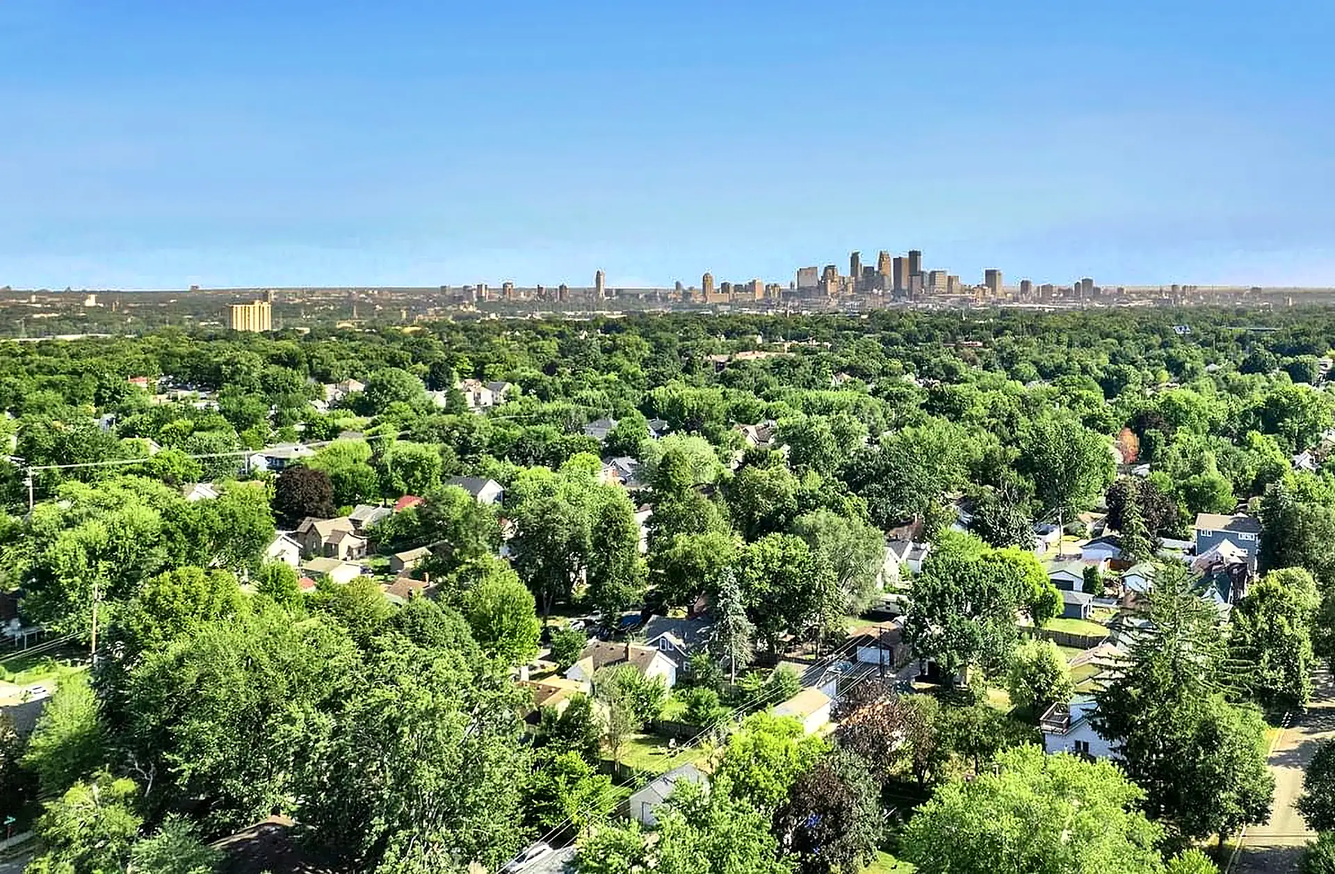
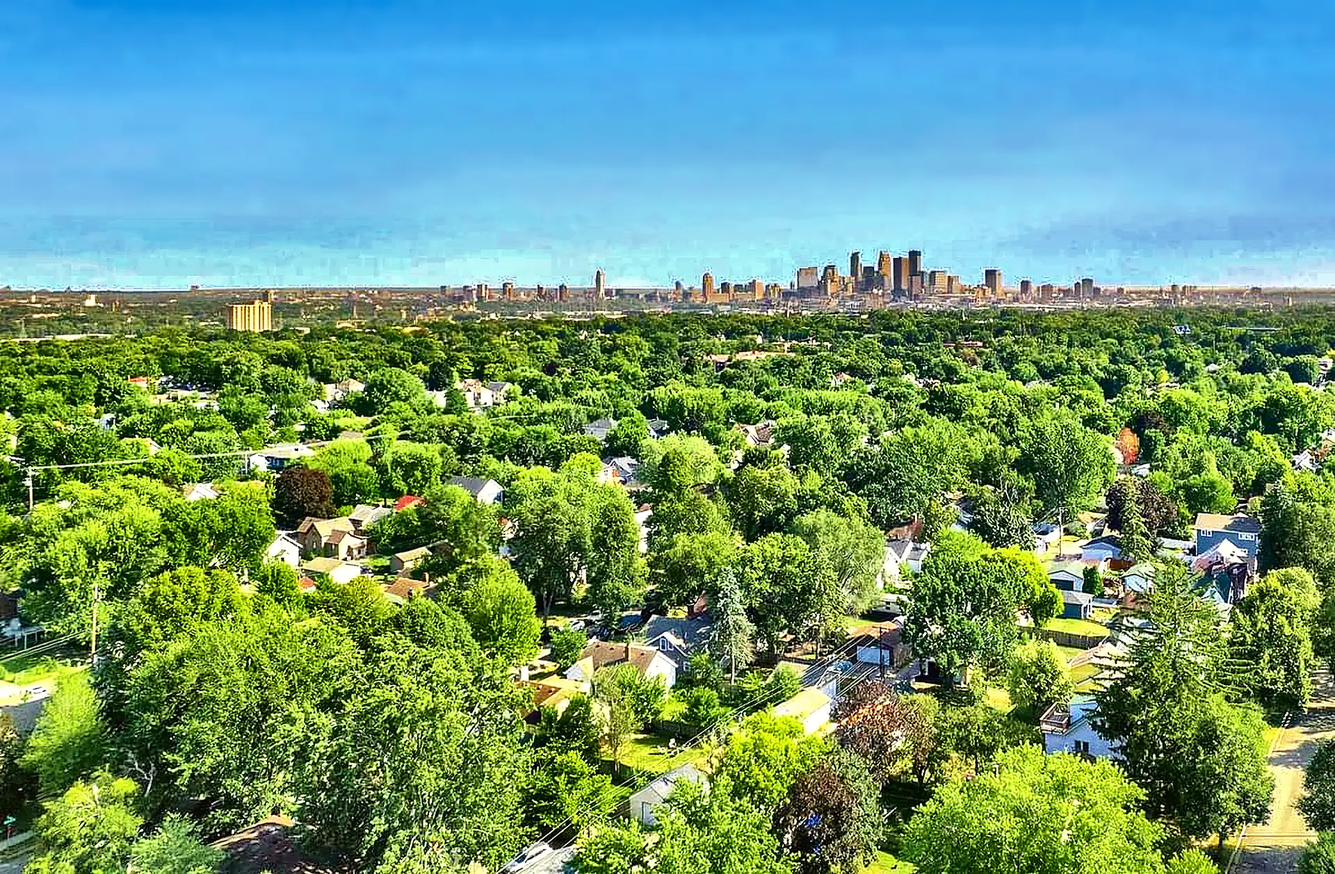
Home page photo: brighter and more vivid (Jason)
Brighter levels, more color in the trees, a clean blue sky (smoothed) and a touch of warmth, on top of the haze
removal. Same file names and framing; image files only.

Claude-Session: https://claude.ai/code/session_018NwgMocKbszJzV4w1RX1qK

diff --git a/public/hero/CREDITS.md b/public/hero/CREDITS.md
@@ -16,7 +16,8 @@
   the downtown skyline. Jason chose it Nov 12, 2026 from mockups (it replaced the Lakeville twilight photo, MLS 7115021,
   used Nov 11 only).
 - Processing (Nov 12, 2026, at Jason's request): enlarged 2x (EDSR), haze removed (dark-channel dehaze on the land only,
-  sky kept smooth), light local contrast and sharpening. Source script in the session notes, not in the repo.
+  sky kept smooth), light local contrast and sharpening; then (same day, Jason: "bright and vivid") brighter levels,
+  more color in the trees, a clearer blue sky and a touch of warmth. Source scripts in the session notes, not in the repo.
 - Made from the MLS copy (1600 px): enlarged 2x with the EDSR super-resolution model (OpenCV dnn_superres), lightly
   sharpened, the top of the sky trimmed; sizes 640-2560 px.
 - To do (Jason): confirm with the listing photographer that the team may use it as the website's main image, and ask
